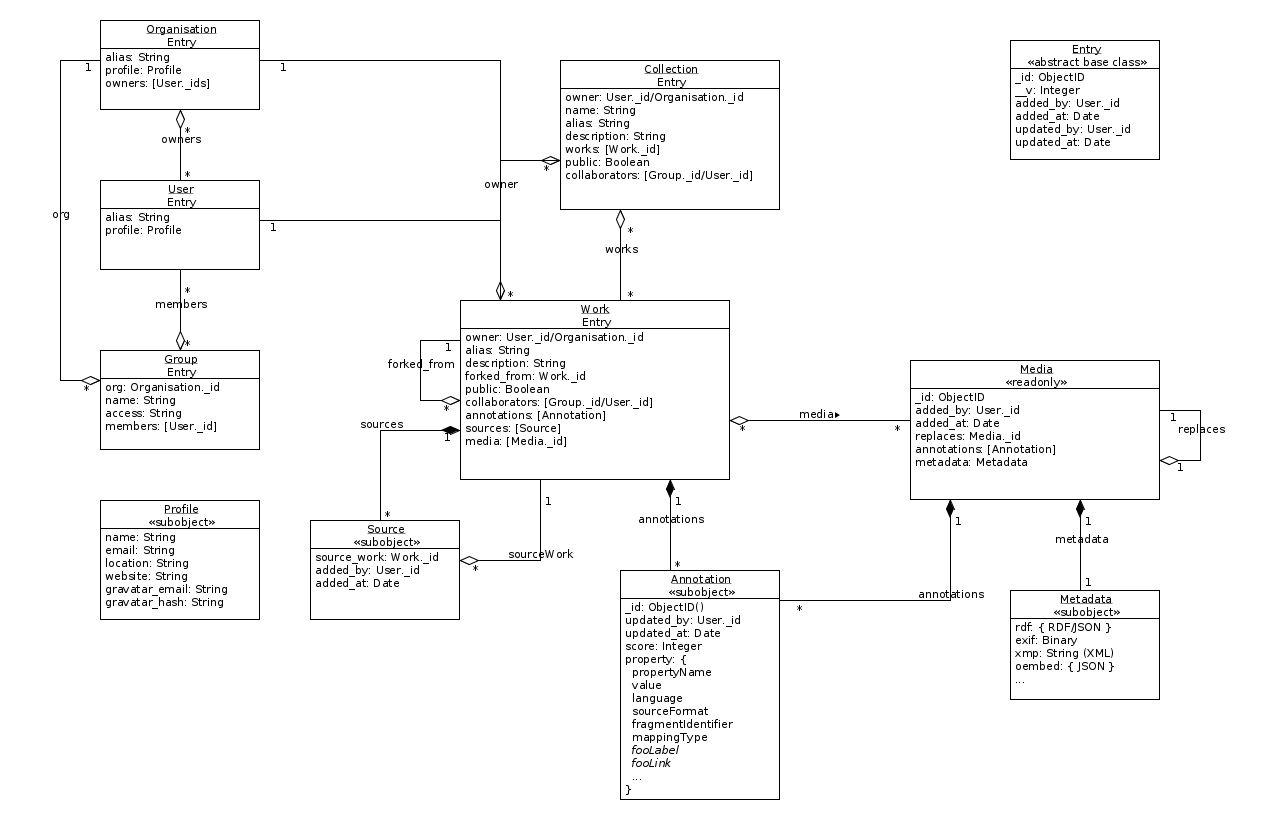
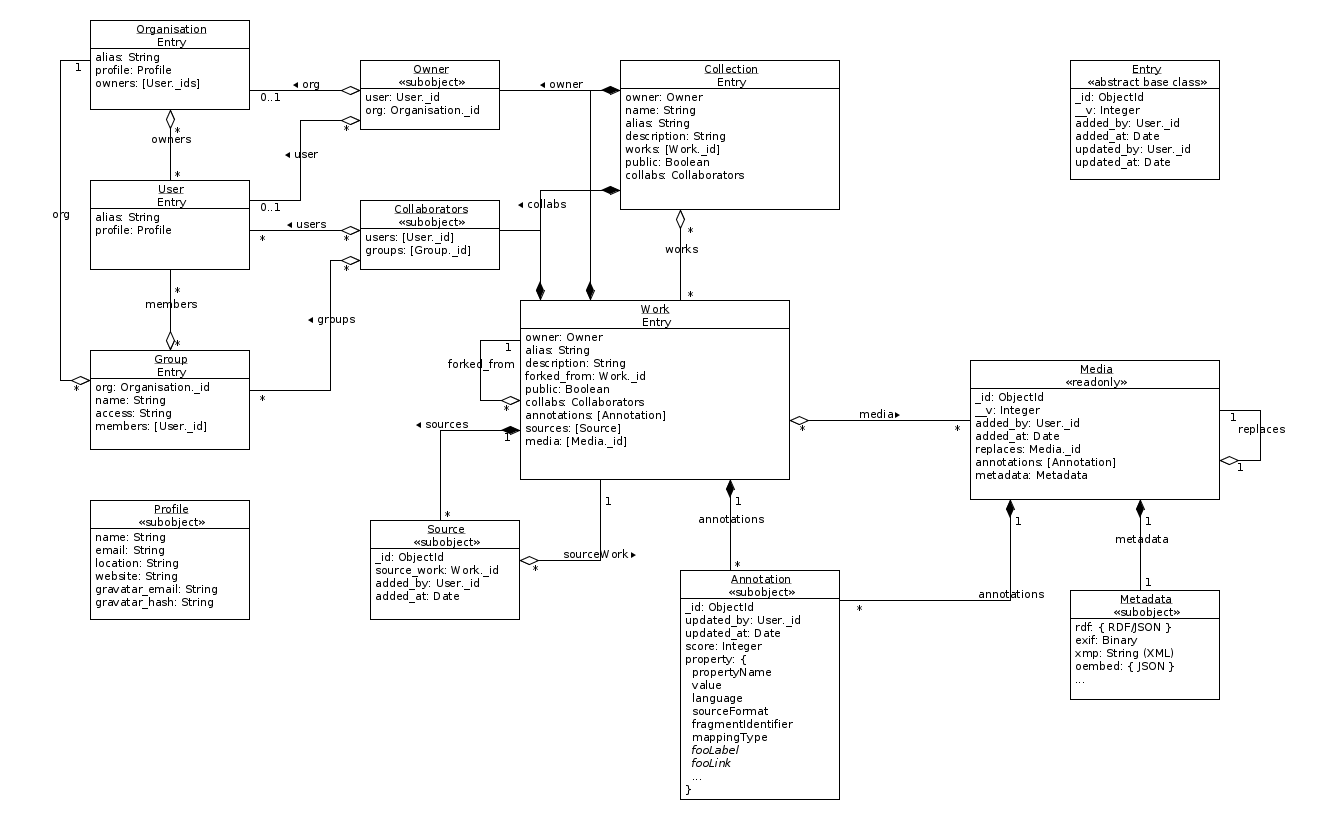
[doc] Datamodel changes to work better with MongoDB

diff --git a/doc/datamodel/core.md b/doc/datamodel/core.md
@@ -71,23 +71,24 @@ updated as such.
 
 ### Properties
 
-`alias`: Optional short name that can be used in URLs, omitted if not
+`alias` (optional): Short name that can be used in URLs, omitted if not
 set.
 
-`owner`: User or Organisation owning the Work object (which doesn't
-imply any kind of copyright ownership).  The user owning the object
-or the admins of the organisation are always allowed to edit a work.
+`owner`: `Owner` subdocument indicating the User or Organisation owning
+the Work object (which doesn't imply any kind of copyright ownership).
+The user owning the object or the admins of the organisation are
+always allowed to edit a work.
 
-`description`: Catalog-internal notes about this work, mainly for the
-user's own purposes.  Not considered work metadata.
+`description` (optional): Catalog-internal notes about this work,
+mainly for the user's own purposes.  Not considered work metadata.
 
-`forked_from`: If this work was created by forking another work, this
-is the ID of the parent.  Omitted if not forked.
+`forked_from` (optional): If this work was created by forking another
+work, this is the ID of the parent.  Omitted if not forked.
 
 `public`: `true` if this work is publically visible.
 
-`collaborators`: List of IDs for `Group` and `User` who can access
-this `Work` and its linked `Media`.
+`collabs`: `Collaborators` subdocument listing IDs for `Group` and
+`User` who can access this `Work` and its linked `Media`.
 
 `annotations`: The work metadata (see `Annotation` below).  This is an
 unordered list of embedded `Annotation` documents.
@@ -99,11 +100,17 @@ this work.
 
 ### Index
 
-`owner, alias` (sparse, unique): For prettier URLs.
+`owner.user, alias` (sparse, unique): For prettier URLs.
 
-`owner`: List my/our works.
+`owner.org, alias` (sparse, unique): For prettier URLs.
 
-`collaborators` (multikey): List my/our collaborations.
+`owner.user` (sparse): List my works.
+
+`owner.org` (sparse): List our works.
+
+`collabs.users` (multikey): List user's collaborations.
+
+`collabs.groups` (multikey): List group's collaborations.
 
 `sources.source_work` (multikey): Show work relationships.
 
@@ -116,18 +123,17 @@ this work.
 The following users have full access to read, update and delete the
 `Work`:
 
-- `Work.owner`, if it is a `User`
-- `Organisation.owners`, if `Work.owner` is an `Organisation`
+- `Work.owner.user`, if set
+- `Organisation.owners` for `Work.owner.org`, if set
 - Any `User` in `Work.collaborators`
 
-For `Group.members` in a `Group` in `Work.collaborators`,
-`Group.access` controls access.  Each higher level includes the access
-of the lower level:
+For `Group.members` in `Work.collabs.groups`, `Group.access` controls
+access.  Each higher level includes the access of the lower level:
 
 - `read`: see the information about a non-public `Work`
 - `write`: change any of the information in the `Work` except
-  `Work.collaborators` and `Work.public`
-- `admin`: change `Work.collaborators` and `Work.public`
+  `Work.collabs` and `Work.public`
+- `admin`: change `Work.collabs` and `Work.public`
 
 
 Media
@@ -149,9 +155,9 @@ refined, "curated", information in the corresponding Work objects.
 
 ### Properties
 
-`replaces`: If the data for a `Media` instance is refreshed, a new
-instance is created and linked through this property to the old
-version.  Omitted if not a replacement.
+`replaces` (optional): If the data for a `Media` instance is
+refreshed, a new instance is created and linked through this property
+to the old version.  Omitted if not a replacement.
 
 `annotations`: The annotations about this Media instance, typically
 derived from the file/page metadata.
@@ -183,27 +189,37 @@ collection, but it helps organising them.
 
 ### Properties
 
+`owner`: `Owner` subdocument indicating the User or Organisation
+that the collection belongs to.
+
 `name`: Name identifying the collection to users.
 
-`alias`: Optional short name that can be used in URLs, omitted if not
+`alias` (optional): Short name that can be used in URLs, omitted if not
 set.
 
-`description`: More detailed description of the purpose and contents
-of the collection.
+`description` (optional): More detailed description of the purpose and
+contents of the collection.
 
 `works`: List of `Work` objects in the collection, linked by ID.
 
 `public`: `true` if this collection is publically visible.
 
-`collaborators`: List of `User` and `Group` with access to the collection.
+`collabs`: `Collaborators` subdocument listing `User` and `Group` with
+access to the collection.
 
 ### Index
 
-`owner, alias` (sparse, unique): For prettier URLs.
+`owner.user, alias` (sparse, unique): For prettier URLs.
 
-`owner`: List my/our collections.
+`owner.org, alias` (sparse, unique): For prettier URLs.
 
-`collaborators` (multikey): List my/our collaborations
+`owner.user` (sparse): List my collections.
+
+`owner.org` (sparse): List our collections.
+
+`collabs.users` (multikey): List my collaborations.
+
+`collabs.groups` (multikey): List our collaborations.
 
 `works` (multikey): List the collections a work is included in.
 
@@ -212,18 +228,18 @@ of the collection.
 The following users have full access to list, modify and delete the
 `Collection`:
 
-- `Collection.owner`, if it is a `User`
-- `Organisation.owners`, if `Collection.owner` is an `Organisation`
-- Any `User` in `Collection.collaborators`
+- `Collection.owner.user`, if set
+- `Organisation.owners`, if `Collection.owner.org` is set
+- Any `User` in `Collection.collabs.users`
 
-For `Group.members` in a `Group` in `Collection.collaborators`,
-`Group.access` controls access.  Each higher level includes the access
-of the lower level:
+For `Group.members` in `Collection.collabs.groups`, `Group.access`
+controls access.  Each higher level includes the access of the lower
+level:
 
 - `read`: see a non-public `Collection`
 - `write`: change any of the information in the `Collection` except
-  `Collection.collaborators` and `Collection.public`
-- `admin`: change `Collection.collaborators` and `Collection.public`
+  `Collection.collabs` and `Collection.public`
+- `admin`: change `Collection.collabs` and `Collection.public`
 
 Note that even though a user may be allowed to see a collection, they
 may not be allowed to see all `Work` collected in it.
@@ -250,7 +266,9 @@ of the organisation.
 
 ### Access
 
-Anyone can see the information about an `Organisation`.
+Anyone can see the information about an `Organisation`, except for
+`Organisation.profile.gravatar_email` which is only visible to the
+user.
 
 
 User
@@ -264,7 +282,7 @@ module.
 
 ### Properties
 
-`alias`: Short name that can be used in URLs.
+`alias` (optional): Short name that can be used in URLs.
 
 `profile`: Public profile.  TODO: define this, but it will be an
 embedded document with keys like "name", "email", "gravatarEmail",
@@ -272,11 +290,12 @@ etc.
 
 ### Index
 
-`alias` (unique): For prettier URLs.
+`alias` (unique, sparse): For prettier URLs.
 
 ### Access
 
-Anyone can see the information about a `User`.
+Anyone can see the information about a `User`, except for
+`User.profile.gravatar_email` which is only visible to the user.
 
 
 Group
@@ -314,6 +333,21 @@ delete groups.
 
 Subobjects
 ==========
+
+Owner
+-----
+
+Denotes the owner (of the record, not necessarily of any work
+copyright) of a `Work` or `Collection`.  Exactly one of `user` or
+`org` must be set.
+
+
+Collaborators
+-------------
+
+Lists `User` and `Group` who can collaborate on a `Work` or
+`Collection`.
+
 
 Annotation
 ----------
@@ -380,6 +414,9 @@ decided later.
 
 ### Properties
 
+`_id`: ObjectID for the `Source`, to make it easier to refer to it in
+the REST API.
+
 `source_work`: The ID of the source `Work`.
 
 `added_by`: The `User` who added the link, may be omitted if the same
@@ -392,22 +429,21 @@ same as `Work.added_at`.
 Profile
 -------
 
-Public information about a `User` or an `Organisaton`.  All
-properties can be unset here, except when indicated.
+Public information about a `User` or an `Organisaton`.
 
 ### Properties
 
-`name`: Full name.
+`name` (optional): Full name.
 
-`email`: Publically visible email address.
+`email` (optional): Publically visible email address.
 
-`location`: Where this person or organisation is located.
+`location` (optional): Where this person or organisation is located.
 
-`website`: Primary website.
+`website` (optional): Primary website.
 
-`gravatar_email`: Email for gravatar icon, if any.
+`gravatar_email` (optional): Email for gravatar icon, if any.
 
-`gravatar_hash`: Hash for gravatar icon.  Always set, if missing based
-on the ObjectID.
+`gravatar_hash`: Hash for gravatar icon.  Always set, if
+`gravatar_email` is missing this is instead based on the ObjectID.
 
 
